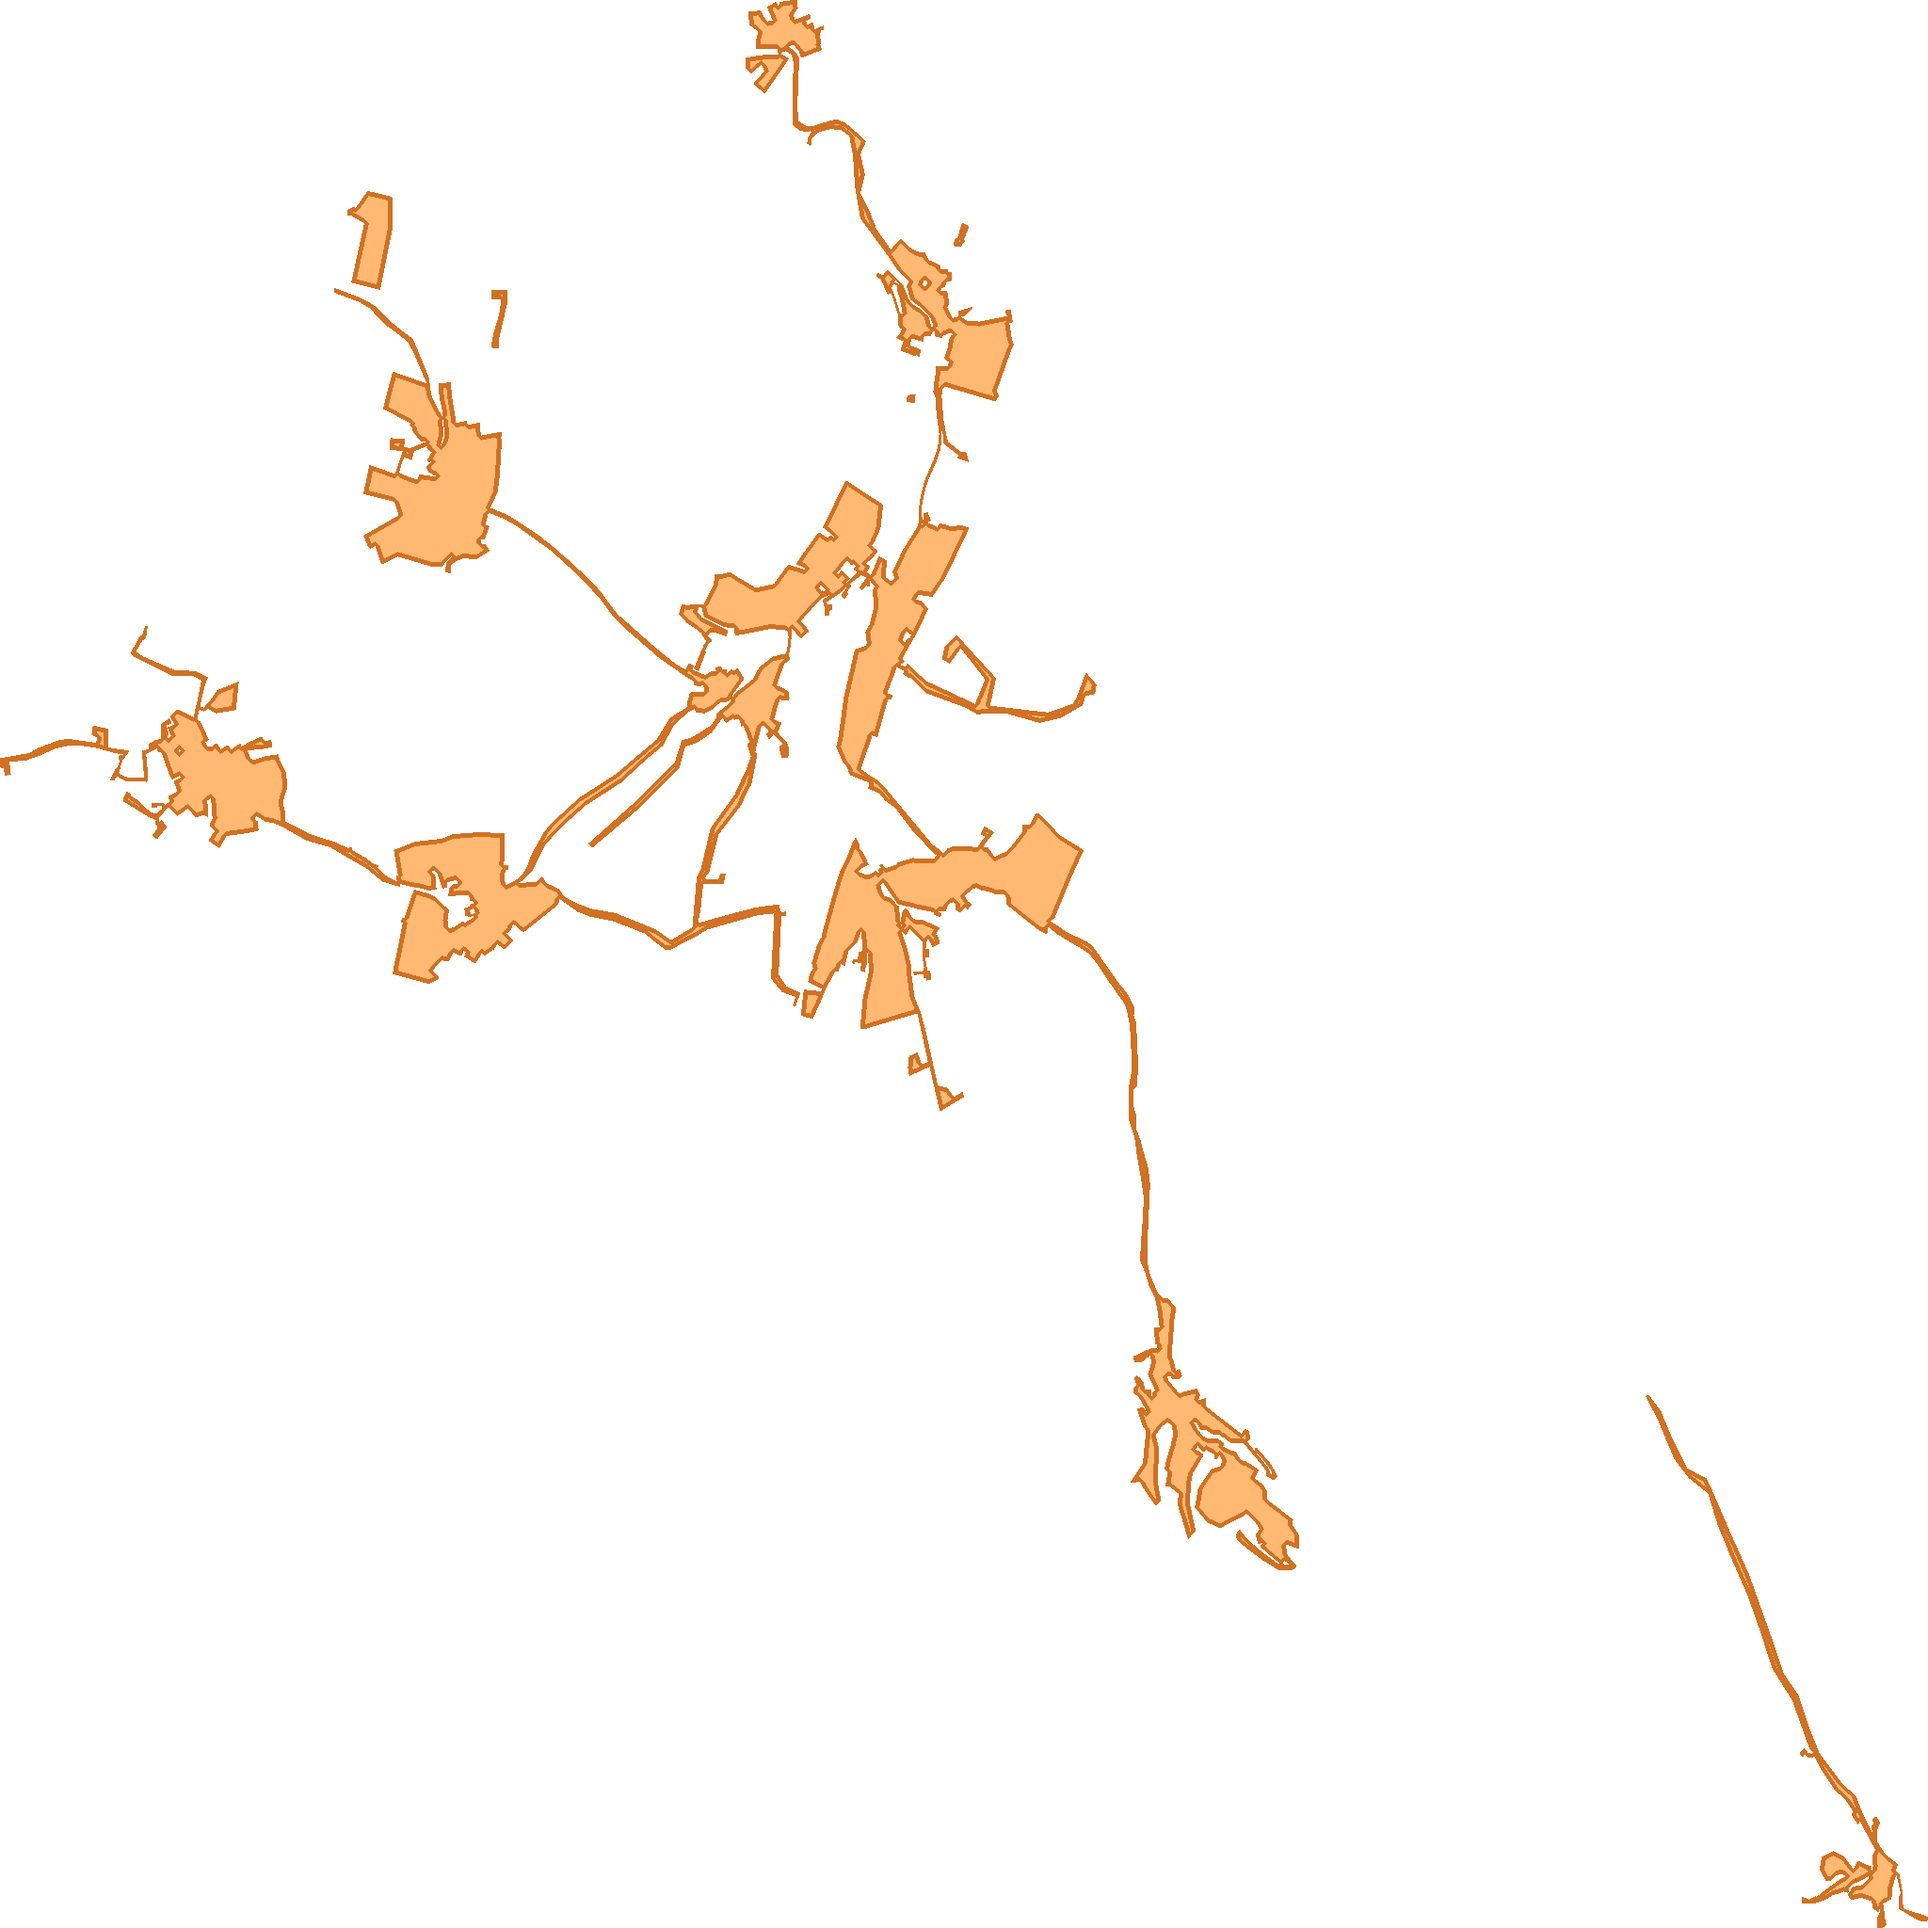
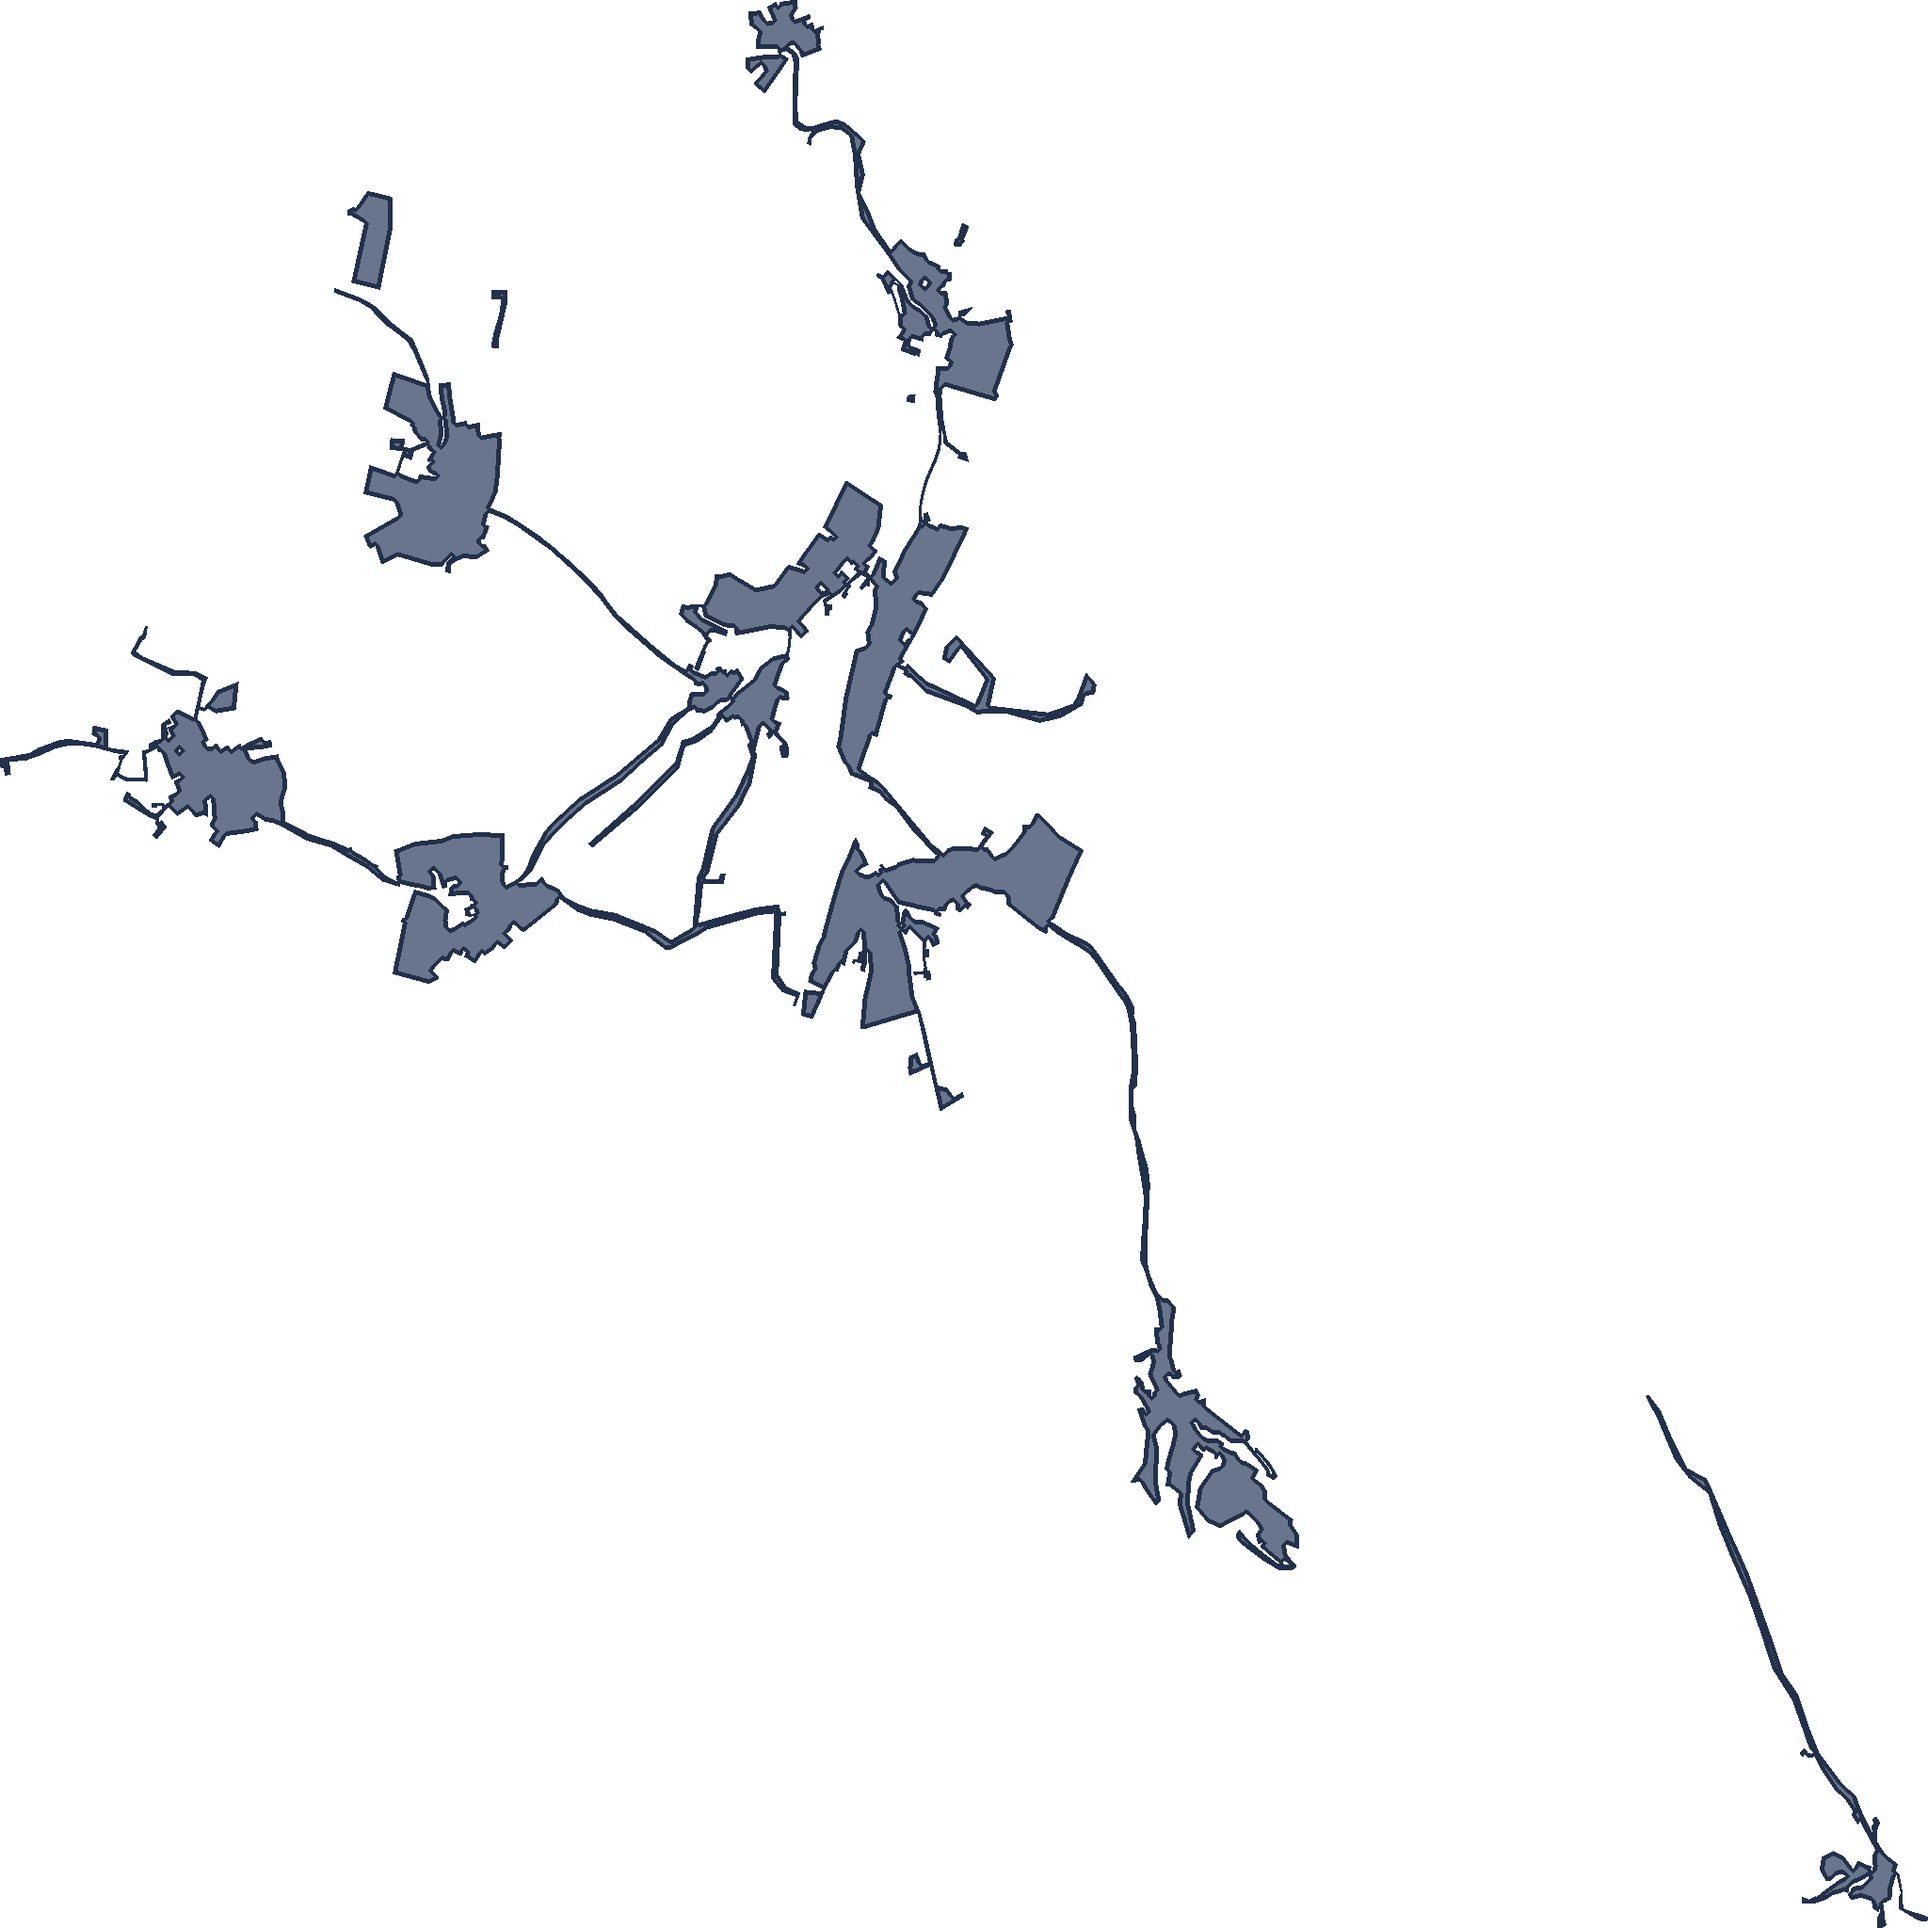
Update Störungskarte

diff --git a/allestoerungen.html b/allestoerungen.html
@@ -144,7 +144,7 @@ cursor: pointer;
  </div>
  <script>
  const map = L.map('map', {zoomControl: false});
-const bounds = [[47.3, 6], [55.0, 15.0]];
+const bounds = [[49.117093337, 9.367274621], [49.204448405, 9.525460598]];
 map.fitBounds(bounds);
  const maptiler = L.tileLayer('https://api.maptiler.com/maps/basic/{z}/{x}/{y}.png?key=hP74ooTG3ciBab5RShCg',
  {attribution: '© <a href="https://maptiler.com">MapTiler</a>', tileSize: 512, zoomOffset: -1, maxZoom: 20, className: 'grayscale-tiles',
@@ -152,7 +152,7 @@ map.fitBounds(bounds);
  L.control.zoom({
  position: 'topleft'
  }).addTo(map);
-const overlays = [];
+const overlays = [{"png": "output_tiles/stoerung_286.png", "bounds": [[49.117093337, 9.367274621], [49.204448405, 9.525460598]]}];
 overlays.forEach(o => {L.imageOverlay(o.png,o.bounds
 ).addTo(map);});
  const zoomFullExtentControl = L.Control.extend({
@@ -166,7 +166,7 @@ container.style.cursor ="pointer";
  L.DomEvent.on(container, 'click', () => map.fitBounds(bounds));
  return container;}});
  map.addControl(new zoomFullExtentControl());
-const stoerungen = [];
+const stoerungen = [{"name": "Schwabbach", "bounds": [[49.117093337, 9.367274621], [49.204448405, 9.525460598]]}];
 const viewControl = L.Control.extend({
 options: {position: 'topleft'},
 onAdd: function(map) {
